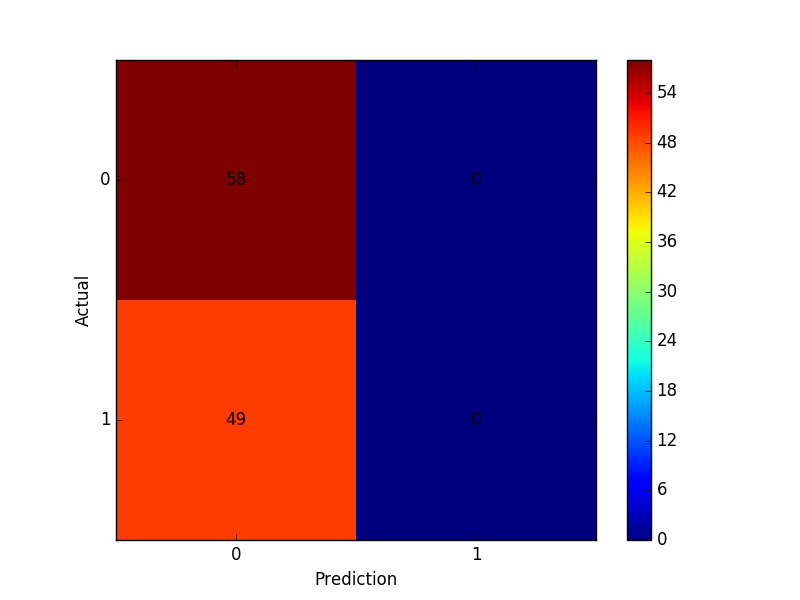
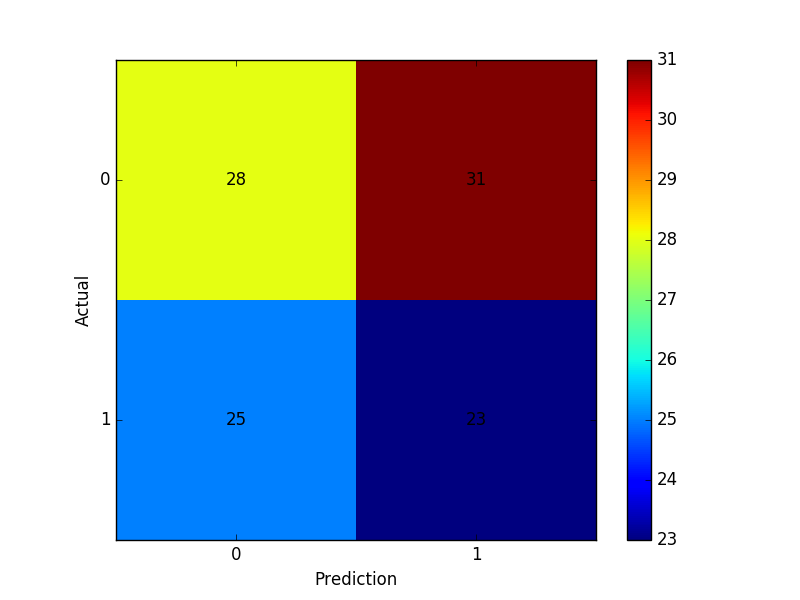
Added evaluation metrics for testing and training

diff --git a/run.py b/run.py
@@ -1,12 +1,12 @@
 import tensorflow as tf
 import numpy as np
 from utils import *
-from utils_visual import *
+# from utils_visual import *
 from layers import *
 from models import *
 from input_brain import *
-import os
 from constants import *
+import os
 
 FLAGS = tf.app.flags.FLAGS
 
@@ -44,11 +44,11 @@ tf.app.flags.DEFINE_boolean('cae', True, """Run the Convolutional AutoEncoder ""
 tf.app.flags.DEFINE_boolean('ae', True, """Run the AutoEncoder """)
 
 
-def createVariables(train, binary_filelist, input_dimensions, batch_size):
+def createVariables(train, binary_filelist, batch_size, input_dimensions):
     # train: Boolean
     # data_list: Path of a file containing a list of all binary data file paths
     # batch_size: int
-    p_keep_conv = tf.placeholder("float")
+    p_keep_conv = tf.placeholder(tf.float32)
     X_image, X_data, Y = inputs(train, binary_filelist, batch_size, input_dimensions)
     return X_image, X_data, Y, p_keep_conv
 
@@ -251,7 +251,7 @@ def run_model(train, model, binary_filelist, run_all, batch_size, max_steps, ove
     else:
         input_dimensions = [31, 37, 31]
 
-    image, data, output, p_keep_conv = createVariables(train, binary_filelist, input_dimensions, batch_size)
+    image, data, output, p_keep_conv = createVariables(train, binary_filelist, batch_size, input_dimensions)
 
     if model == 'ae':
         layer_outputs, weights, encode, decode, \
@@ -290,7 +290,6 @@ def run_model(train, model, binary_filelist, run_all, batch_size, max_steps, ove
         compressed_filelist = []
         predictions = []
         targets = []
-        images_test = []
         for i in range(i_stopped, max_steps):
             print("Running iteration {} of TF Session".format(i))
             if model == 'cae' or model == 'ae':
@@ -305,23 +304,26 @@ def run_model(train, model, binary_filelist, run_all, batch_size, max_steps, ove
                     predictions = np.around(pred).flatten()
                     targets = targ.flatten()
                     print "Predictions are: " + str(predictions)
-                    print "Target are: " + str(targ)
+                    print "Target are: " + str(targets)
+                    compute_statistics(targets, predictions)
                 else:
                     pred, loss, targ = sess.run([layer_outputs['pred'], cost, output])
                     print pred
-                    print "Prediction Probability: " + str(pred[0][0])
-                    pred = round(pred[0][0])
-                    targ = targ[0]
-                    print "Prediction is: " + str(pred)
-                    print "Target is: " + str(targ)
-                    predictions.append(pred)
-                    targets.append(targ)
-                    images_test.append(np.asarray(image.eval()))
+                    # # Code below is used for single predictions, but currently not working
+                    # print "Prediction Probability: " + str(pred[0][0])
+                    # pred = round(pred[0][0])
+                    # targ = targ[0]
+                    # print "Prediction is: " + str(pred)
+                    # print "Target is: " + str(targ)
+                    # predictions.append(pred)
+                    # targets.append(targ)
+                    predictions.extend(np.around(pred).flatten().tolist())
+                    targets.extend(targ.flatten().tolist())
             print("The current loss is: " + str(loss))
             # print("Current predicted labels are: " + str(layer_outputs['pred'].eval()))
 
             # Checkpoint model at each 100 iterations
-            should_save = i != 0 and i % 10 == 0 or (i+1) == max_steps
+            should_save = i != 0 and i % 100 == 0 or (i+1) == max_steps
             if should_save and train:
                 checkpoint_path = os.path.join(FLAGS.checkpoint_dir, 'model.ckpt')
                 saver.save(sess, checkpoint_path, global_step=i)
@@ -336,6 +338,8 @@ def run_model(train, model, binary_filelist, run_all, batch_size, max_steps, ove
         coord.join(stop_grace_period_secs=10)
 
         if not train and model != 'cae' and model != 'ae':
+            predictions = predictions[:107]
+            targets = targets[:107]
             print predictions
             print targets
             conf_matrix, accuracy, recall, precision, f_score = compute_statistics(targets, predictions)

diff --git a/utils.py b/utils.py
@@ -212,7 +212,8 @@ def extract_parser():
 
 def create_conditions(args, FLAGS):
     binary_filelist = None
-    batch_size = 1
+    # batch_size = 1
+    batch_size = 32
     max_steps = 1071
     run_all = False
 
@@ -232,7 +233,8 @@ def create_conditions(args, FLAGS):
             binary_filelist = FLAGS.test_binaries
         else:
             binary_filelist = FLAGS.reduced_test_binaries
-        max_steps = 107
+        # max_steps = 107
+        max_steps = 4
     else:
         if args.model == 'ae':
             binary_filelist = FLAGS.ae_all_binaries
@@ -247,7 +249,7 @@ def create_conditions(args, FLAGS):
 def setup_checkpoint(train, sess, saver, directory, overrideChkpt):
     ckpt = tf.train.get_checkpoint_state(directory)
     if train:
-        # Get checkpoint at step: i_stopped
+        Get checkpoint at step: i_stopped
         if (not overrideChkpt) and ckpt and ckpt.model_checkpoint_path:
             saver.restore(sess, ckpt.model_checkpoint_path)
             print("Fetching checkpoint data from:")
@@ -265,6 +267,8 @@ def setup_checkpoint(train, sess, saver, directory, overrideChkpt):
         if ckpt and ckpt.model_checkpoint_path:
             saver.restore(sess, ckpt.model_checkpoint_path)
             print(ckpt.model_checkpoint_path)
+
+        # saver.restore(sess, '/data/ckpt/model.ckpt-2000')
         i_stopped = 0
 
     return i_stopped

diff --git a/input_brain.py b/input_brain.py
@@ -65,7 +65,7 @@ def _generate_image_and_label_batch(image, data, label, min_queue_examples, batc
 			[image, data, label],
 			batch_size=batch_size,
 			num_threads=train_preprocess_threads,
-			capacity=min_queue_examples + 3 * batch_size, #TODO: subject to change
+			capacity=min_queue_examples * 2, #+ 3 * batch_size, #TODO: subject to change
 			min_after_dequeue=min_queue_examples,
 			seed=273
 		)
@@ -74,7 +74,7 @@ def _generate_image_and_label_batch(image, data, label, min_queue_examples, batc
 			[image, data, label],
 			batch_size=batch_size,
 			num_threads=train_preprocess_threads,
-			capacity=min_queue_examples + 3 * batch_size #TODO: subject to change
+			capacity=min_queue_examples * 2, #+ 3 * batch_size #TODO: subject to change
 		)
 
 	return images, data, tf.reshape(label_batch, [batch_size])

diff --git a/layers.py b/layers.py
@@ -2,7 +2,7 @@ import tensorflow as tf
 import numpy as np
 from input_brain import *
 from utils import *
-from utils_visual import *
+# from utils_visual import *
 
 
 # Define custom API for creating and adding layers to NN Model
